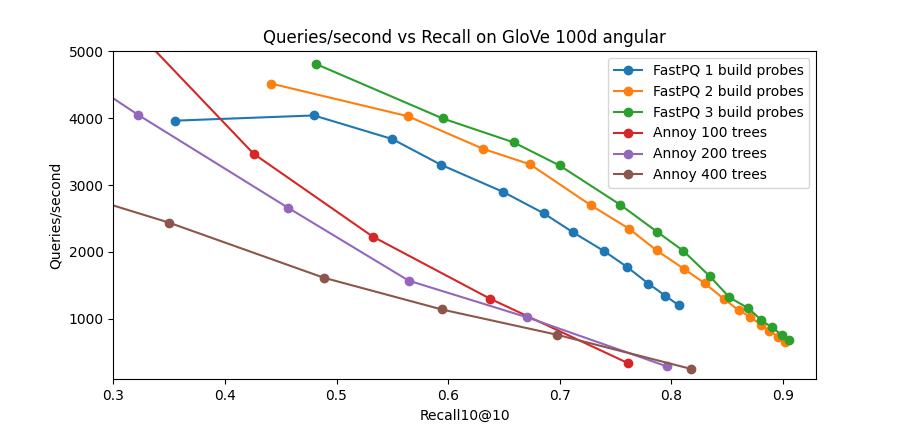
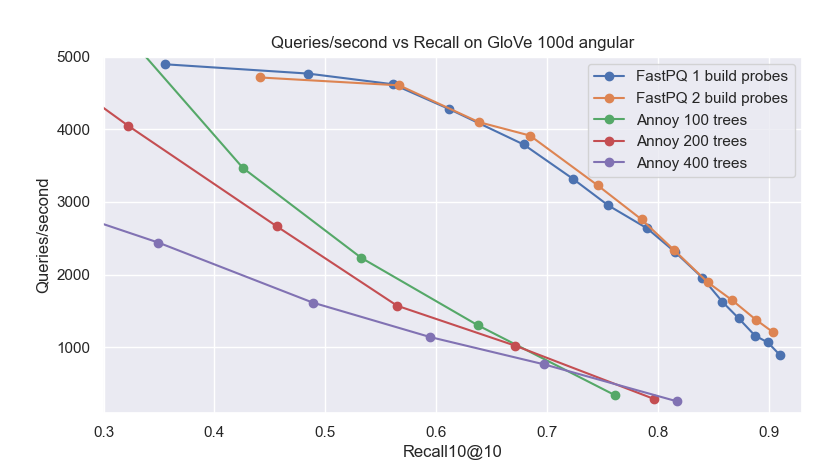
Small optimization of heap

diff --git a/fast_pq/ivf.py b/fast_pq/ivf.py
@@ -220,16 +220,15 @@ class IVF:
         # We need a scratch space to store the approximate values,
         # but we won't actually use it.
         values = np.empty((rescore,), dtype=np.int32)
-        init_heap(indices, values, True)
+        indices[:] = -1
+        values[:] = 127
+        #init_heap(indices, values, True)
 
         for i, cl in enumerate(top):
             true_n, transformed_data = self.pq_transformed_points[cl]
             query_pq_sse(
                 transformed_data, true_n, dtable.tables, indices, values, True, labels=self.ids[cl]
             )
-            #print(i, true_n, indices.tolist().count(-1))
-            #print(indices)
-            #print(values)
 
         # Remove duplicates (only an issue if build_probes > 1)
         indices = np.unique(indices)

diff --git a/examples/plot_bench.py b/examples/plot_bench.py
@@ -25,7 +25,7 @@ for line in data.split("\n"):
         queries_per_second.append(qps_value)
 
 # Plot the data
-for l, recall, queries_per_second in fast_pq_series:
+for l, recall, queries_per_second in fast_pq_series[:2]:
     plt.plot(recall, queries_per_second, marker='o', label=f"FastPQ {l} build probes")
 for l, recall, queries_per_second in annoy_series:
     plt.plot(recall, queries_per_second, marker='o', label=f"Annoy {l} trees")

diff --git a/examples/bench.py b/examples/bench.py
@@ -99,7 +99,8 @@ for build_probes in range(1, n_max_build_probes):
     recall = 0
     n_probes = 1
     qpss, recalls = [], []
-    while (build_probes == 1 and recall < .8) or (build_probes > 1 and recall < .9):
+    #while (build_probes == 1 and recall < .8) or (build_probes > 1 and recall < .9):
+    while recall < .9:
         start = time.time()
         found = 0
 
